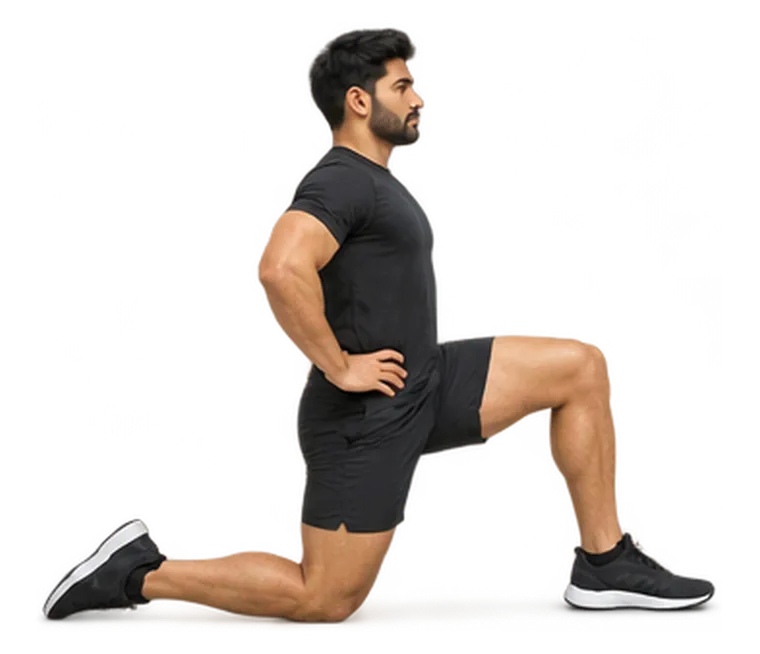
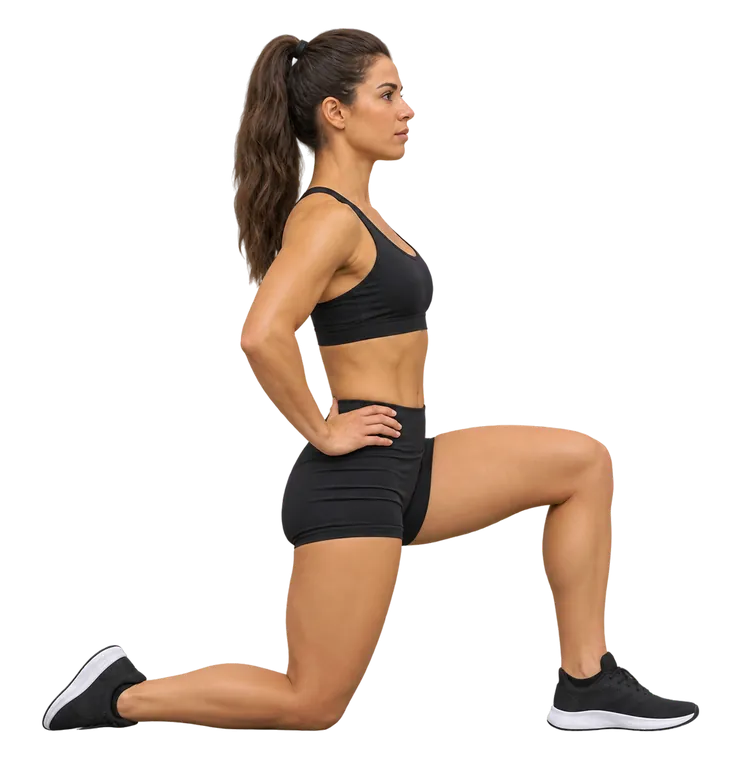
Release v0.4.4: same athlete in all 35 exercise photos
New photos for russian-twist, climber, high-knees, ham-stretch and
hip-flexor. Faint background haze and stray pixels cleaned; russian-twist-b
was mirrored and is flipped back. No logos found.

Claude-Session: https://claude.ai/code/session_01SgaN6zveFZcVCrrE6Hbc5f

Changed region(s): [[0.031, 0.0306, 0.9622, 0.9786]]

diff --git a/index.html b/index.html
@@ -9,13 +9,13 @@
 <meta name="apple-mobile-web-app-title" content="LIME">
 <meta name="description" content="LIME — a minimalist workout tracker. Your data stays on your phone.">
 <title>LIME Workout</title>
-<link rel="manifest" href="manifest.webmanifest?v=0.4.3">
+<link rel="manifest" href="manifest.webmanifest?v=0.4.4">
 <link rel="icon" href="favicon.ico" sizes="any">
-<link rel="icon" href="icons/icon.svg?v=0.4.3" type="image/svg+xml">
-<link rel="apple-touch-icon" href="icons/apple-touch-icon.png?v=0.4.3">
+<link rel="icon" href="icons/icon.svg?v=0.4.4" type="image/svg+xml">
+<link rel="apple-touch-icon" href="icons/apple-touch-icon.png?v=0.4.4">
 <link rel="preload" href="fonts/oswald-var.woff2" as="font" type="font/woff2" crossorigin>
 <link rel="preload" href="fonts/inter-var.woff2" as="font" type="font/woff2" crossorigin>
-<link rel="stylesheet" href="css/app.css?v=0.4.3">
+<link rel="stylesheet" href="css/app.css?v=0.4.4">
 </head>
 <body>
   <!-- Splash: removed by app.js; a CSS fallback hides it after 4 s so it can never get stuck -->
@@ -36,27 +36,27 @@
   <div id="toast-root"></div>
 
   <!-- Load order matters: core → data → ui → features → app. Tested in tests/structure.test.mjs -->
-  <script src="js/core/version.js?v=0.4.3"></script>
-  <script src="js/core/util.js?v=0.4.3"></script>
-  <script src="js/core/store.js?v=0.4.3"></script>
-  <script src="js/core/timer.js?v=0.4.3"></script>
-  <script src="js/core/audio.js?v=0.4.3"></script>
-  <script src="js/data/exercises.js?v=0.4.3"></script>
-  <script src="js/data/art.js?v=0.4.3"></script>
-  <script src="js/data/figures.js?v=0.4.3"></script>
-  <script src="js/data/planner.js?v=0.4.3"></script>
-  <script src="js/ui/icons.js?v=0.4.3"></script>
-  <script src="js/ui/toast.js?v=0.4.3"></script>
-  <script src="js/ui/sheet.js?v=0.4.3"></script>
-  <script src="js/ui/charts.js?v=0.4.3"></script>
-  <script src="js/ui/body3d.js?v=0.4.3"></script>
-  <script src="js/features/stats.js?v=0.4.3"></script>
-  <script src="js/features/onboarding.js?v=0.4.3"></script>
-  <script src="js/features/home.js?v=0.4.3"></script>
-  <script src="js/features/library.js?v=0.4.3"></script>
-  <script src="js/features/player.js?v=0.4.3"></script>
-  <script src="js/features/progress.js?v=0.4.3"></script>
-  <script src="js/features/settings.js?v=0.4.3"></script>
-  <script src="js/app.js?v=0.4.3"></script>
+  <script src="js/core/version.js?v=0.4.4"></script>
+  <script src="js/core/util.js?v=0.4.4"></script>
+  <script src="js/core/store.js?v=0.4.4"></script>
+  <script src="js/core/timer.js?v=0.4.4"></script>
+  <script src="js/core/audio.js?v=0.4.4"></script>
+  <script src="js/data/exercises.js?v=0.4.4"></script>
+  <script src="js/data/art.js?v=0.4.4"></script>
+  <script src="js/data/figures.js?v=0.4.4"></script>
+  <script src="js/data/planner.js?v=0.4.4"></script>
+  <script src="js/ui/icons.js?v=0.4.4"></script>
+  <script src="js/ui/toast.js?v=0.4.4"></script>
+  <script src="js/ui/sheet.js?v=0.4.4"></script>
+  <script src="js/ui/charts.js?v=0.4.4"></script>
+  <script src="js/ui/body3d.js?v=0.4.4"></script>
+  <script src="js/features/stats.js?v=0.4.4"></script>
+  <script src="js/features/onboarding.js?v=0.4.4"></script>
+  <script src="js/features/home.js?v=0.4.4"></script>
+  <script src="js/features/library.js?v=0.4.4"></script>
+  <script src="js/features/player.js?v=0.4.4"></script>
+  <script src="js/features/progress.js?v=0.4.4"></script>
+  <script src="js/features/settings.js?v=0.4.4"></script>
+  <script src="js/app.js?v=0.4.4"></script>
 </body>
 </html>

diff --git a/js/data/art.js b/js/data/art.js
@@ -12,7 +12,7 @@
     'bench-press': [760, 630],
     'box-squat': [540, 760],
     'calf-raise': [202, 760],
-    'climber': [760, 437],
+    'climber': [760, 473],
     'crunch': [760, 308],
     'db-bench': [760, 592],
     'db-curl': [246, 760],
@@ -22,9 +22,9 @@
     'deadlift': [439, 760],
     'glute-bridge': [760, 344],
     'goblet-squat': [292, 760],
-    'ham-stretch': [480, 760],
-    'high-knees': [374, 760],
-    'hip-flexor': [760, 654],
+    'ham-stretch': [571, 760],
+    'high-knees': [415, 760],
+    'hip-flexor': [741, 760],
     'jacks': [381, 760],
     'jump-squat': [423, 760],
     'kb-swing': [434, 760],
@@ -37,7 +37,7 @@
     'pullup': [502, 760],
     'pushup': [760, 437],
     'rdl': [452, 760],
-    'russian-twist': [760, 563],
+    'russian-twist': [760, 611],
     'squat': [482, 760],
     'superman': [760, 181]
   };

diff --git a/js/core/version.js b/js/core/version.js
@@ -2,8 +2,15 @@
    VERSION must match ?v= on every asset link in index.html, sw.js VERSION
    and the newest CHANGELOG.md entry (checked by tests/structure.test.mjs). */
 var LIME = {
-  VERSION: '0.4.3',
+  VERSION: '0.4.4',
   RELEASES: [
+    {
+      version: '0.4.4',
+      date: '2026-11-08',
+      notes: [
+        'Every exercise photo now shows the same athlete: new photos for Russian twist, mountain climber, high knees, hamstring stretch and hip flexor stretch.'
+      ]
+    },
     {
       version: '0.4.3',
       date: '2026-11-08',

diff --git a/sw.js b/sw.js
@@ -1,6 +1,6 @@
 /* Service worker: page network-first, versioned assets cache-first.
    VERSION must equal LIME.VERSION (checked by tests). */
-const VERSION = '0.4.3';
+const VERSION = '0.4.4';
 const CACHE = 'lime-' + VERSION;
 const V = '?v=' + VERSION;
 

diff --git a/AGENTS.md b/AGENTS.md
@@ -115,7 +115,9 @@ be set to **GitHub Actions**. The deploy job only runs after tests pass.
   Photos) → 3D body (if 3D) → SVG drawing. `LIME.media(ex, opts)` decides.
 - Exercise photos are AI-generated prototypes supplied by the owner; four had a
   sportswear logo retouched out. Re-check new batches for logos before adding.
-  Goal: one athlete (the woman) in every photo — 5 moves still show a man:
-  russian-twist, climber, high-knees, ham-stretch, hip-flexor.
+  All 35 now show the same athlete. Open photo issues: high-knees and climber
+  start/end are nearly identical (same knee up), so their loop barely moves —
+  need an end photo with the other knee. russian-twist-b was supplied mirrored
+  and is flipped back during import.
 - SMIL animations in figures: fine in Safari/Chrome; turned off for
   `prefers-reduced-motion`.

diff --git a/CHANGELOG.md b/CHANGELOG.md
@@ -4,6 +4,11 @@ Newest first. Every release also updates `LIME.RELEASES` in `js/core/version.js`
 the `?v=` on every asset link in `index.html`, `VERSION` in `sw.js`, and
 `version` in `package.json`. `tests/structure.test.mjs` fails if they differ.
 
+## 0.4.4 — 2026-11-08
+
+- Every exercise photo now shows the same athlete: new photos for Russian
+  twist, mountain climber, high knees, hamstring stretch and hip flexor stretch.
+
 ## 0.4.3 — 2026-11-08
 
 - New Refresh button on Home and in Settings: reloads the app and gets the
